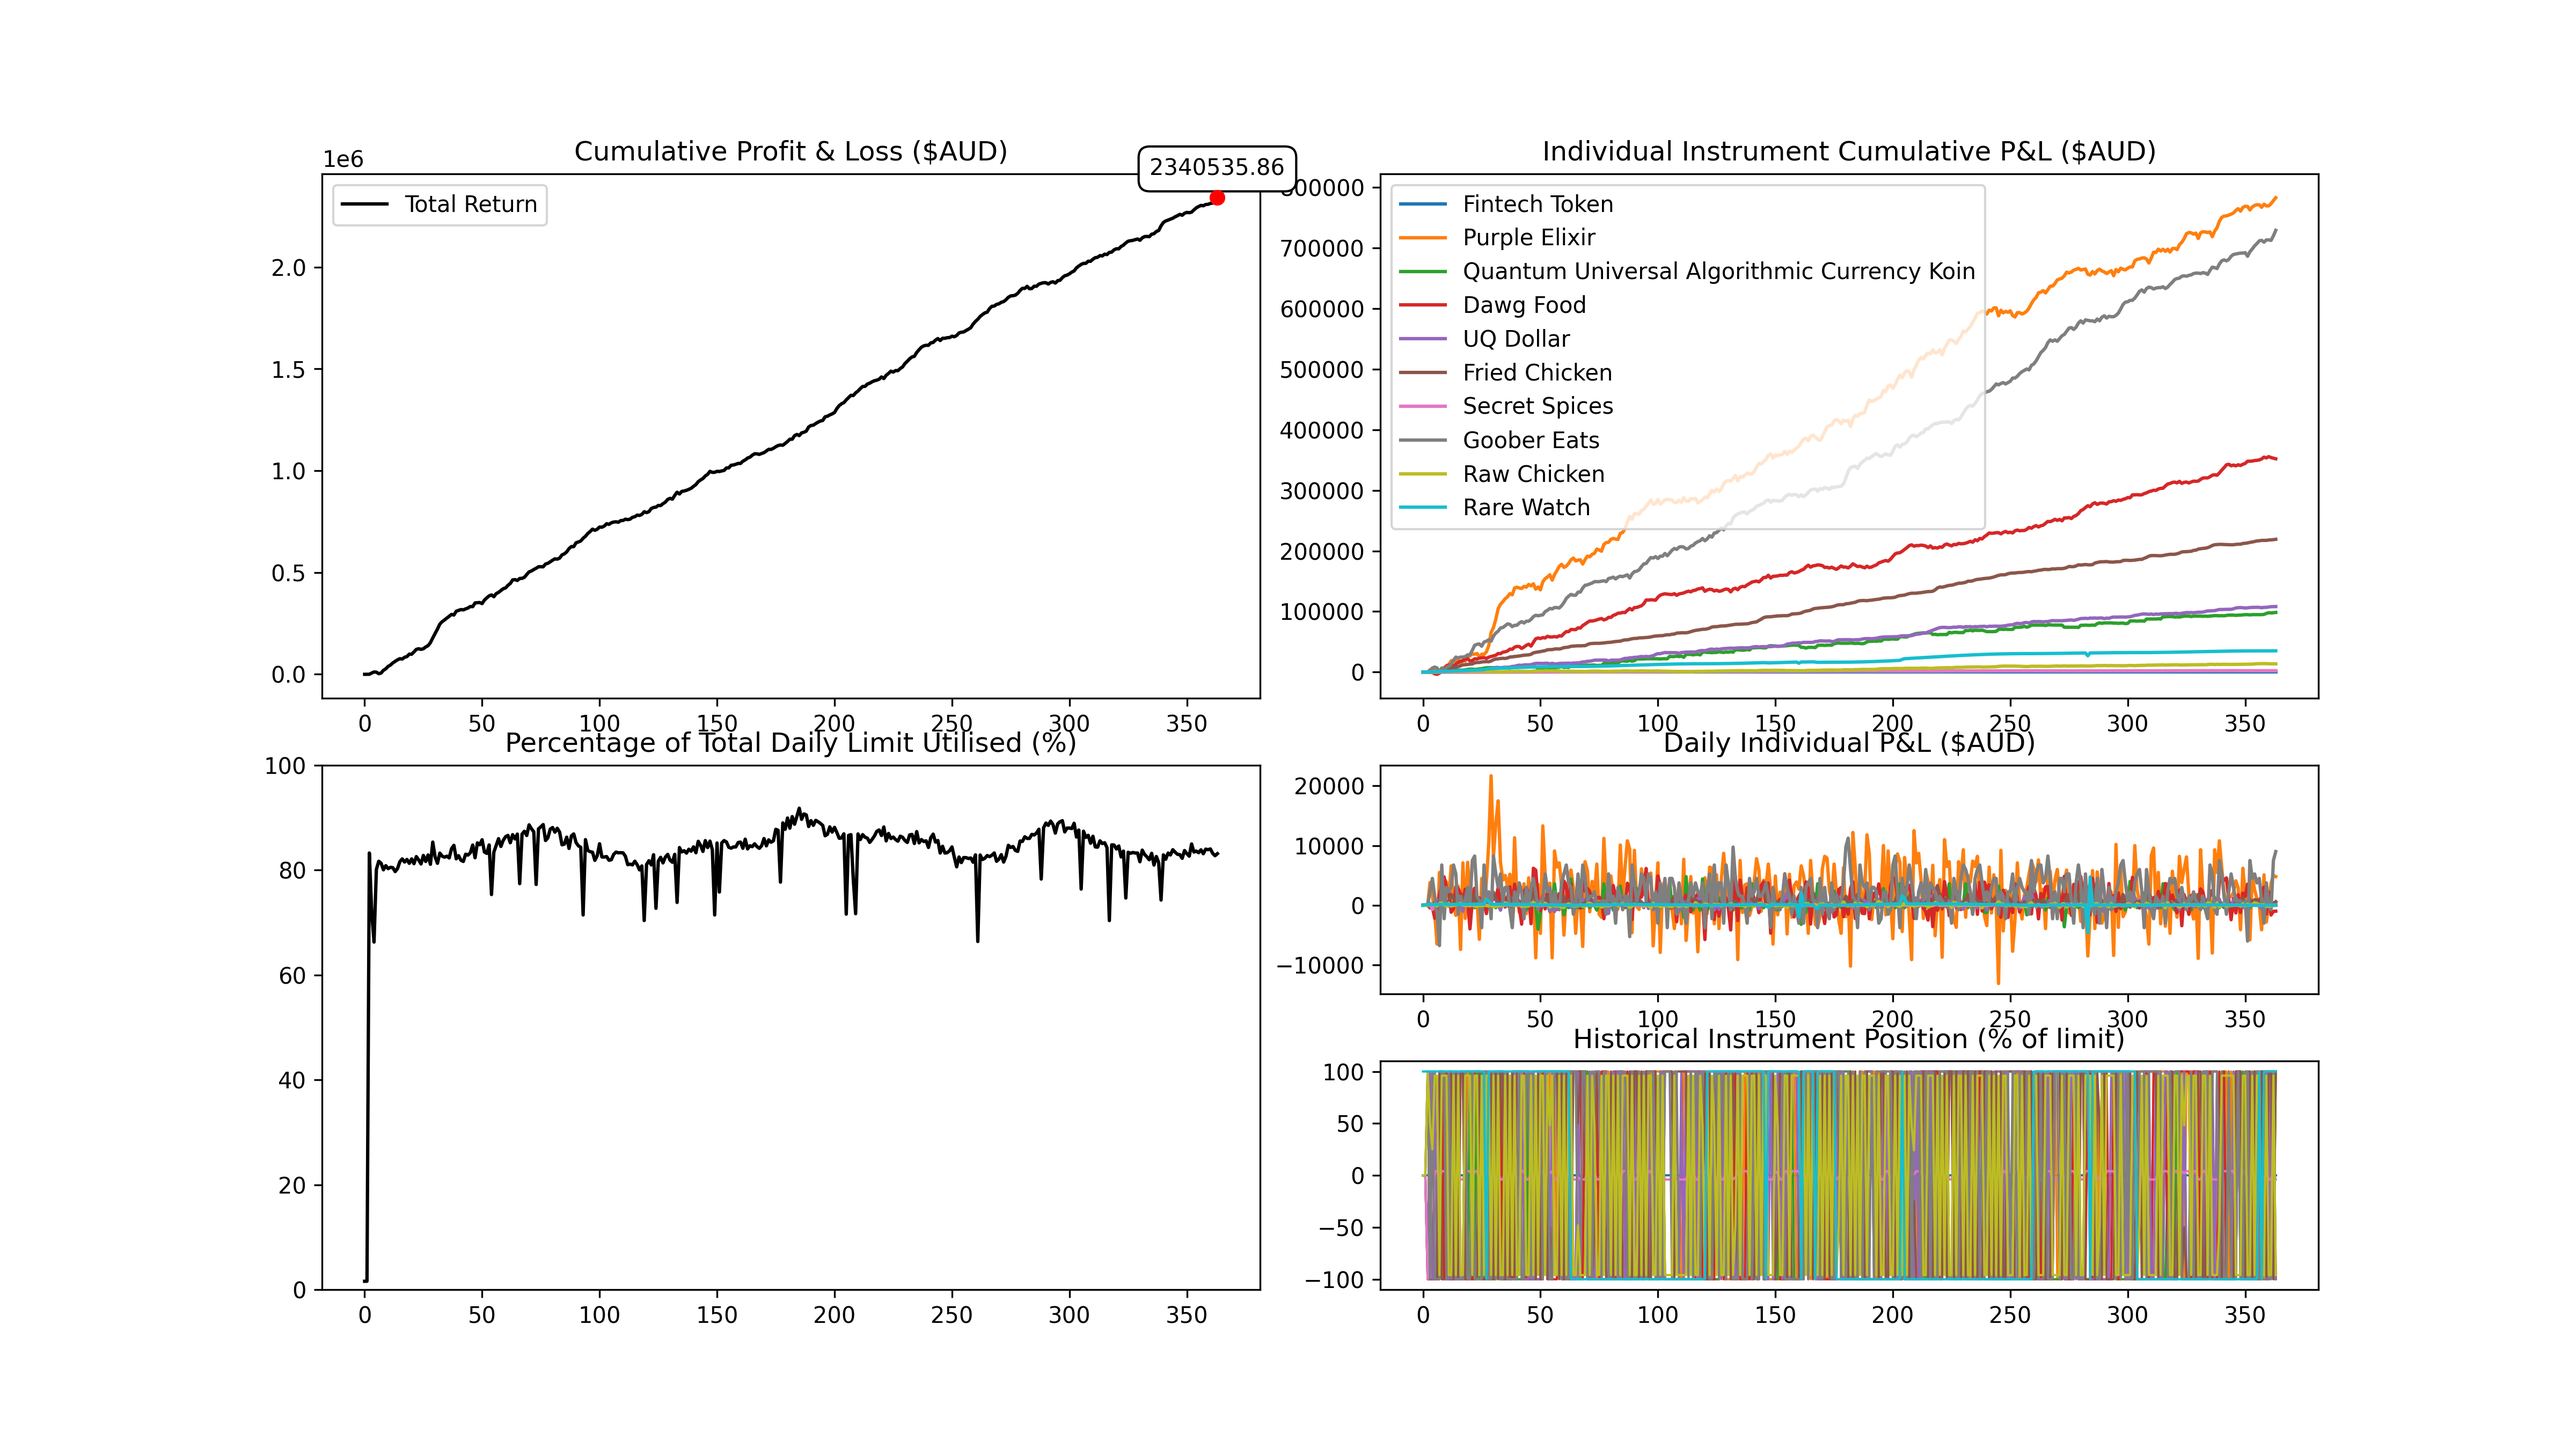
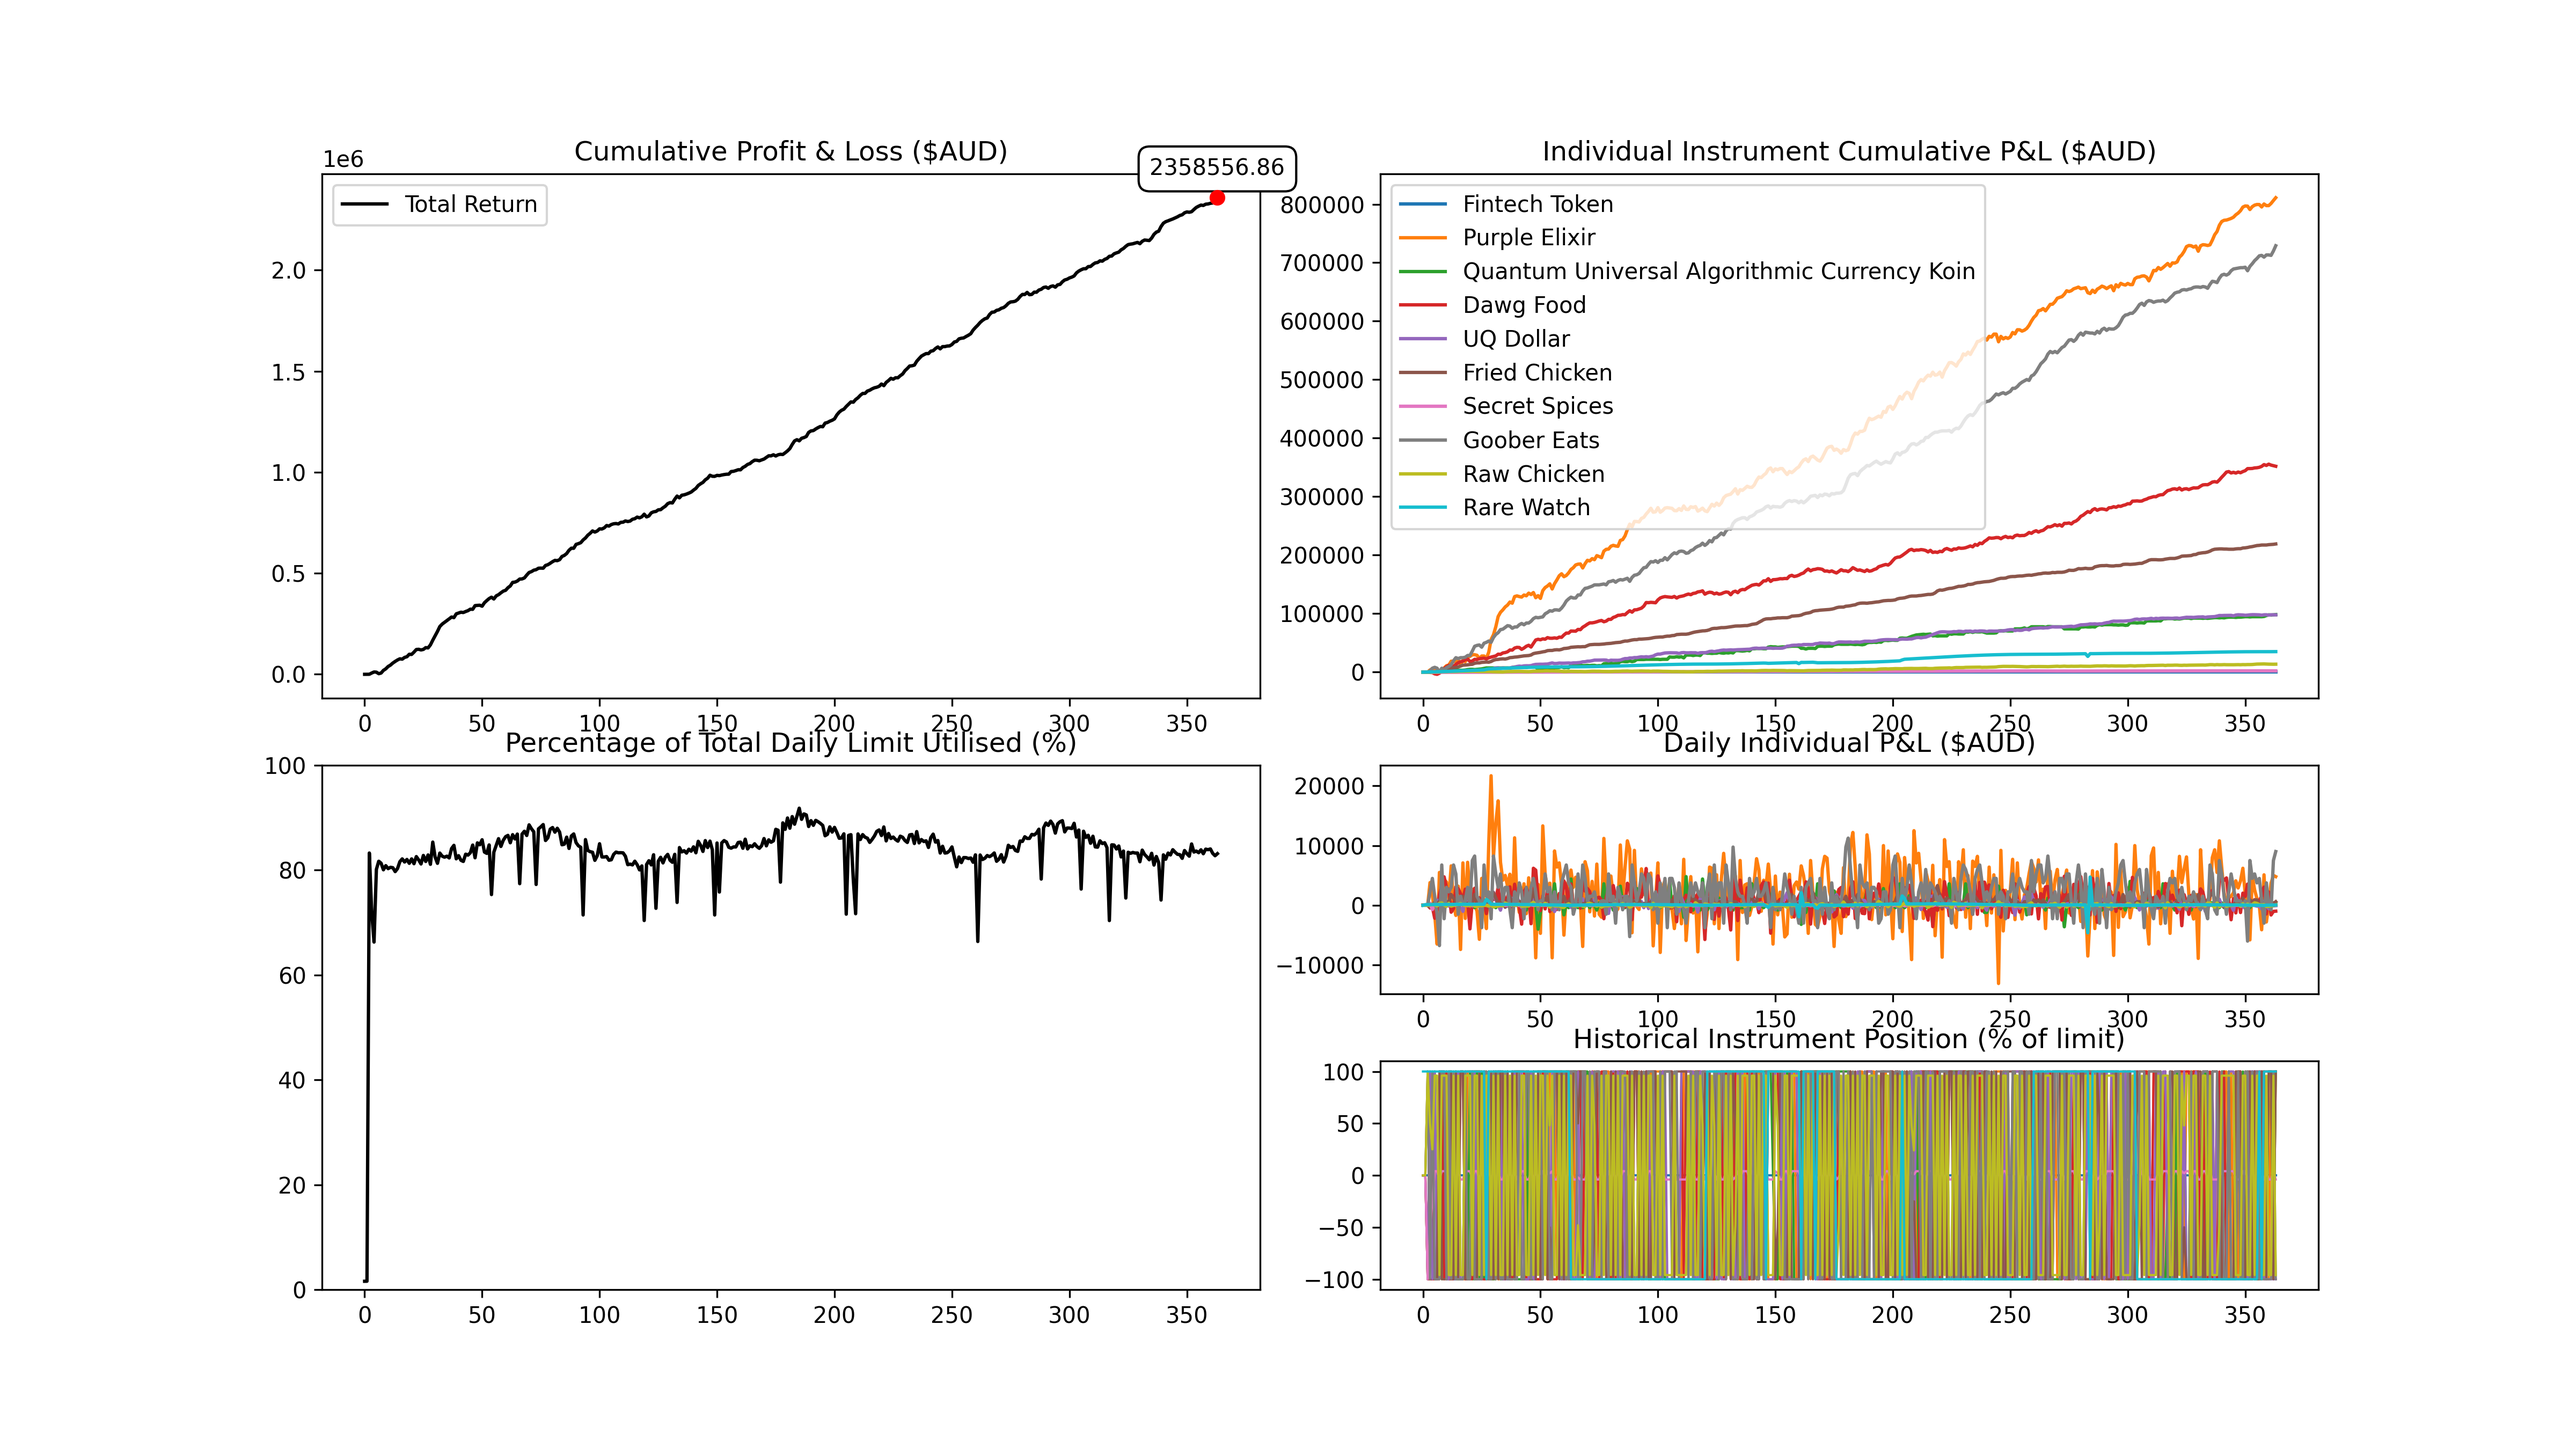
PE = 8

diff --git a/trader_interface/algorithm.py b/trader_interface/algorithm.py
@@ -93,7 +93,7 @@ class Algorithm():
 
         # EMA
         trade_instruments = [PE, UD, GE, DF]
-        ema_periods = {PE:10, UD:12, FC:42, GE:14, DF:6}  # EMA lookback period - TODO adjust for different instruments
+        ema_periods = {PE:8, UD:12, FC:42, GE:14, DF:6}  # EMA lookback period - TODO adjust for different instruments
 
         # We need enough data to calculate EMA
         for ins in trade_instruments:
